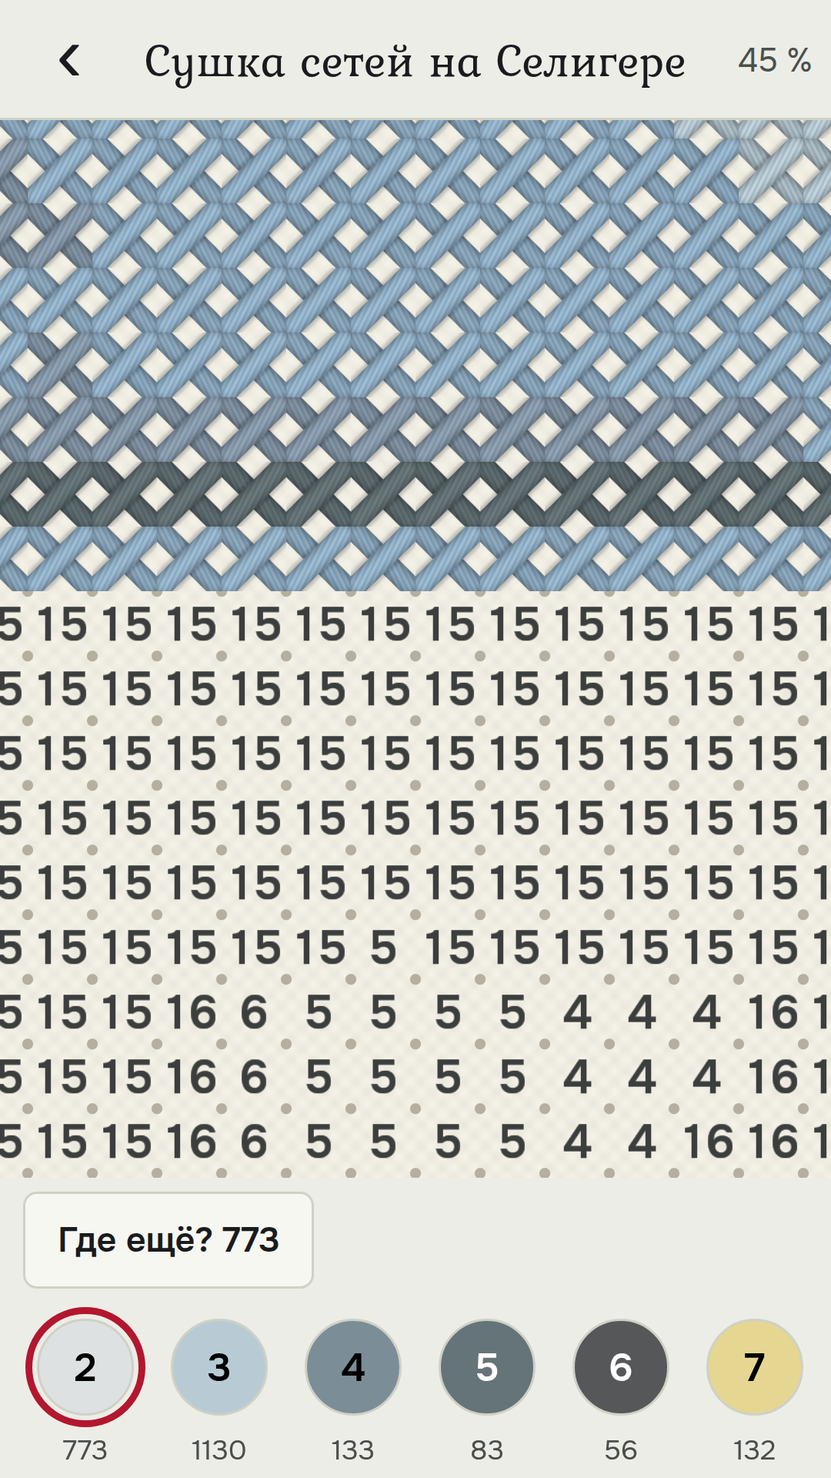
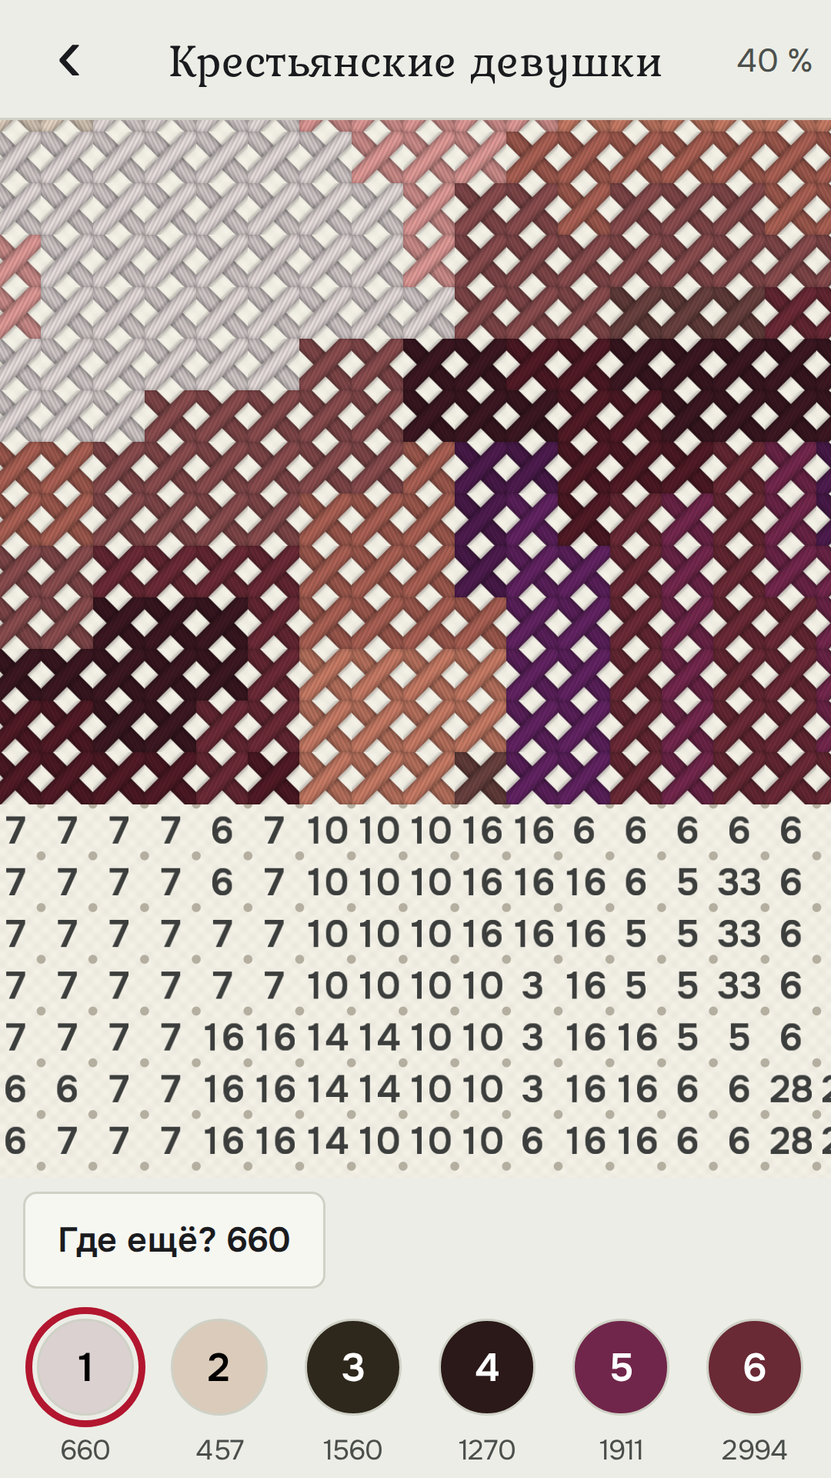
Снимки для сайта и RuStore — крупные узоры; описания
На старых снимках «Крестьянские девушки» были собраны мелко (около 100
клеток по стороне): так узоры собирались до 0.0.4. Теперь снимки
Прокудина-Горского — до 360 клеток по стороне, и кадры пересняты: вышивание
крупно («Крестьянские девушки», 40 %), большая работа издалека («Пинхус
Карлинский»), крупные номера (орнамент), «Мозаика» (дыни «Торговца
дынями»), «Готово» (116 640 стежков) и «Как вышивалось».

tools/store/shots.ts: работы веб-сборки давно лежат в IndexedDB, а сценарий
подкладывал их в localStorage — теперь кладёт в базу страницы и открывает её
заново; строка о мыши (её нет на телефоне) скрыта; PNG плотнее без потерь.

Описания: на странице сайта (store/site/page.ru.md, page.en.md) и в
карточке RuStore (listing.ru.md, listing.en.md) — размеры от узоров на пять
минут до картин на несколько вечеров и подробность больших узоров; шесть
кадров с подписями. Сайт заберёт store/ с main сам — workflow «Страницы
игр» ночью откроет PR «Сайт: обновления игр».

Claude-Session: https://claude.ai/code/session_011kYKK7oQZbu5ACgnuahr3Q

diff --git a/tools/store/shots.ts b/tools/store/shots.ts
@@ -72,22 +72,54 @@ async function open(page: Page, s: Seed, settings: Record<string, unknown>) {
   const started = Date.now() - 42 * 60_000;
   const bytes = encodeWork(s.key, started, s.strokes);
   const index = [{ id: s.id, pattern: s.key, started, done: s.done, total: s.total, opened: started + 40 * 60_000, at: s.at }];
-  await page.addInitScript(([id, work, idx, set]) => {
-    localStorage.clear();
-    localStorage.setItem(`uzory.files.${id}.log`, work);
-    localStorage.setItem('uzory.files.index.json', idx);
-    localStorage.setItem('uzory.settings.v1', set);
-  }, [s.id, base64Encode(bytes), base64Encode(utf8Encode(JSON.stringify(index))), JSON.stringify(settings)] as const);
+  // работы веб-сборки — в IndexedDB (src/state/files.web.ts), настройки — в localStorage:
+  // страница открывается, файлы кладутся в её базу, и она открывается заново уже с работой
   await page.goto(base);
+  await page.evaluate(async ([id, work, idx, set]) => {
+    localStorage.clear();
+    localStorage.setItem('uzory.settings.v1', set);
+    const bytesOf = (b64: string) => Uint8Array.from(atob(b64), (c) => c.charCodeAt(0));
+    await new Promise<void>((resolve, reject) => {
+      const r = indexedDB.open('uzory', 1);
+      r.onupgradeneeded = () => r.result.createObjectStore('files');
+      r.onerror = () => reject(r.error);
+      r.onsuccess = () => {
+        const db = r.result;
+        const t = db.transaction('files', 'readwrite');
+        const files = t.objectStore('files');
+        files.clear();
+        files.put(bytesOf(work), `${id}.log`);
+        files.put(bytesOf(idx), 'index.json');
+        t.oncomplete = () => {
+          db.close();
+          resolve();
+        };
+        t.onerror = () => reject(t.error);
+      };
+    });
+  }, [s.id, base64Encode(bytes), base64Encode(utf8Encode(JSON.stringify(index))), JSON.stringify(settings)] as const);
+  await page.reload();
+  // строка о мыши и колёсике — только в браузере: на телефоне, для которого эти снимки, её нет
+  await page.addStyleTag({ content: '[data-testid="hint"] { display: none !important; }' });
   await page.getByTestId('continue').waitFor({ timeout: 60_000 });
   await page.getByTestId('continue').click();
   await page.getByTestId('canvas').waitFor();
   await page.waitForTimeout(2500);
 }
 
+/** Клавиши канвы в браузере (docs/specs/2026-09-web.md): «−» — дальше, «0» — весь узор. */
+async function keys(page: Page, ...list: string[]) {
+  for (const k of list) {
+    await page.keyboard.press(k);
+    await page.waitForTimeout(400);
+  }
+  await page.waitForTimeout(800);
+}
+
 async function save(page: Page, name: string) {
   const png = await page.screenshot();
-  await sharp(png).toFile(join(SHOTS, `${name}.png`));
+  // без потерь, но плотнее: сайт делает из них WebP сам, а RuStore берёт как есть
+  await sharp(png).png({ compressionLevel: 9, adaptiveFiltering: true }).toFile(join(SHOTS, `${name}.png`));
   console.log(name);
 }
 
@@ -104,25 +136,35 @@ const shot = async (f: (page: Page) => Promise<void>) => {
 const base0 = { hints: false, haptics: false, sound: false, music: false };
 
 try {
-  // 1. Вышивание: снимок Прокудина-Горского, верх вышит, дальше — номера
+  // 1. Вышивание: «Крестьянские девушки» Прокудина-Горского — красная кофта и тарелка с ягодами
+  // вышиты, ниже номера; чуть дальше масштаба открытия, чтобы в кадр вошли и крестики, и картина
   await shot(async (page) => {
-    const p = get('pg-sushka-setey').pattern;
-    await open(page, seed('w-shot-1', p, progress(p, 0.46), { x: p.w * 0.42, y: p.h * 0.47 }), { ...base0, style: 'cross' });
+    const p = get('pg-krestyanskie-devushki').pattern;
+    await open(page, seed('w-shot-1', p, progress(p, 0.41), { x: p.w * 0.76, y: p.h * 0.4 }), { ...base0, style: 'cross' });
+    await keys(page, '-');
     await save(page, '01-stitch');
   });
-  // 2. Крупные номера: орнамент, выбранная нить подсвечена
+  // 2. Большая работа издалека: вышитое — цветом, остальное — бледной схемой
+  await shot(async (page) => {
+    const p = get('pg-pinkhus-karlinskiy').pattern;
+    await open(page, seed('w-shot-2', p, progress(p, 0.55), { x: p.w / 2, y: p.h / 2 }), { ...base0, style: 'cross' });
+    await keys(page, '0');
+    await save(page, '02-far');
+  });
+  // 3. Крупные номера: орнамент, выбранная нить подсвечена
   await shot(async (page) => {
     const p = get('zvezda-alatyr').pattern;
-    await open(page, seed('w-shot-2', p, progress(p, 0.5, [0]), { x: p.w / 2, y: p.h / 2 }), { ...base0, style: 'cross', bigNumbers: true });
-    await save(page, '02-close');
+    await open(page, seed('w-shot-3', p, progress(p, 0.5, [0]), { x: p.w / 2, y: p.h / 2 }), { ...base0, style: 'cross', bigNumbers: true });
+    await save(page, '03-close');
   });
-  // 3. «Мозаика»
+  // 4. «Мозаика»: дыни «Торговца дынями» ровными квадратами
   await shot(async (page) => {
     const p = get('pg-torgovets-dynyami').pattern;
-    await open(page, seed('w-shot-3', p, progress(p, 0.55), { x: p.w * 0.35, y: p.h * 0.56 }), { ...base0, style: 'mosaic' });
-    await save(page, '03-mosaic');
+    await open(page, seed('w-shot-4', p, progress(p, 0.5), { x: p.w * 0.62, y: p.h * 0.5 }), { ...base0, style: 'mosaic' });
+    await keys(page, '-');
+    await save(page, '04-mosaic');
   });
-  // 4–5. Готово и «Как вышивалось»: последняя клетка — в центре экрана
+  // 5–6. Готово и «Как вышивалось»: последняя клетка — в центре экрана
   await shot(async (page) => {
     const p = get('pg-krestyanskie-devushki').pattern;
     const all = progress(p, 1);
@@ -131,15 +173,15 @@ try {
     if (!last.cells.length) all.pop();
     const x = cell % p.w;
     const y = (cell - x) / p.w;
-    await open(page, seed('w-shot-4', p, all, { x: x + 0.5, y: y + 0.5 }), { ...base0, style: 'cross' });
+    await open(page, seed('w-shot-5', p, all, { x: x + 0.5, y: y + 0.5 }), { ...base0, style: 'cross' });
     const box = (await page.getByTestId('canvas').boundingBox())!;
     await page.mouse.click(box.x + box.width / 2, box.y + box.height / 2);
     await page.getByTestId('replay').waitFor({ timeout: 15_000 });
     await page.waitForTimeout(1500);
-    await save(page, '04-done');
+    await save(page, '05-done');
     await page.getByTestId('replay').click();
-    await page.waitForTimeout(4500);
-    await save(page, '05-replay');
+    await page.waitForTimeout(5500);
+    await save(page, '06-replay');
   });
 } finally {
   await browser.close();

diff --git a/store/site/page.ru.md b/store/site/page.ru.md
@@ -1,7 +1,7 @@
 ---
 name: Узоры
 title: Узоры — вышивка крестиком по номерам
-description: "Раскраска по номерам в виде вышивки крестиком: орнаменты, картины и Россия в цвете. Новая картинка каждый день, без интернета и без рекламы."
+description: "Раскраска по номерам в виде вышивки крестиком: орнаменты, картины и Россия в цвете — от узоров на пять минут до картин на несколько вечеров. Картинка дня, без интернета и без рекламы."
 kind: Раскраска по номерам
 status: dev
 lead: "Вышивка крестиком по номерам: выбираете нить и вышиваете — касанием или проводя пальцем."
@@ -10,19 +10,26 @@ feature: graphics/feature-ru.png
 shots:
   - file: screenshots/ru/01-stitch.png
     caption: Вышивание
-    alt: "Вышивание: льняная канва, крестики и номера нитей в клетках, полоса нитей внизу"
-  - file: screenshots/ru/02-close.png
+    alt: "Вышивание снимка Прокудина-Горского: крестики на льняной канве, номера нитей в клетках, полоса нитей внизу"
+  - file: screenshots/ru/02-far.png
+    caption: Большая работа издалека
+    alt: "Большая работа издалека: вышитое — цветом нитей, остальное — бледной схемой"
+  - file: screenshots/ru/03-close.png
     caption: Крупные номера
-    alt: "Крестики крупно: выбранная нить подсвечена, номера на невышитых клетках"
-  - file: screenshots/ru/03-mosaic.png
+    alt: "Орнамент крупно: выбранная нить подсвечена, номера на невышитых клетках"
+  - file: screenshots/ru/04-mosaic.png
     caption: Стиль «Мозаика»
-    alt: "Стиль «Мозаика»: ровные квадраты с тонким зазором"
-  - file: screenshots/ru/04-done.png
+    alt: "Стиль «Мозаика»: ровные квадраты с тонким зазором вместо крестиков"
+  - file: screenshots/ru/05-done.png
     caption: Готово
-    alt: Готовая работа в рамке и кнопка «Как вышивалось»
+    alt: "Готовая работа: «Крестьянские девушки» Прокудина-Горского, 116 640 стежков, и кнопка «Как вышивалось»"
+  - file: screenshots/ru/06-replay.png
+    caption: Как вышивалось
+    alt: "«Как вышивалось»: работа заполняется стежок за стежком в том порядке, как её вышивали"
 card:
   text: "Вышивка крестиком по номерам: выбираете нить и вышиваете касанием или проводя пальцем. Орнаменты, картины и Россия в цвете, новая картинка каждый день, спокойная музыка, никакой спешки."
   points:
+    - От узора на пять минут до большой картины на несколько вечеров
     - Картинка дня бесплатно — каждый день и навсегда
     - Без интернета, без регистрации и без рекламы
     - Подписка «Узоры+» — без пробной недели с автосписанием
@@ -40,6 +47,10 @@ card:
 - Сказки, цветы, природа, города и простые картинки для детей.
 - Новая картинка каждый день — бесплатно и навсегда.
 
+Размеры — от малых узоров на пять минут до больших картин и старых снимков на несколько вечеров.
+Чем крупнее узор, тем подробнее: у «Крестьянских девушек» Прокудина-Горского — больше ста тысяч
+стежков, видны лица и узоры тканей. Работа сохраняется сама — продолжайте, когда удобно.
+
 ## Спокойно и честно
 
 Ни таймеров, ни энергии, ни серий «не пропусти день». Ошибиться нельзя: стежок ложится только туда,
@@ -50,6 +61,6 @@ card:
 
 ## Когда
 
-Игра в разработке, снимки — с прототипа: канва и «Готово» уже выглядят как в 1.0. «Узоры» готовятся
+Игра в разработке, снимки — со сборки для проверки: канва и «Готово» уже выглядят как в 1.0. «Узоры» готовятся
 к выходу в RuStore для Android; когда откроется предзаказ, здесь появится кнопка. Почта для
 вопросов: hello@gornitsa.games.

diff --git a/store/site/page.en.md b/store/site/page.en.md
@@ -1,7 +1,7 @@
 ---
 name: Uzory
 title: Uzory — cross-stitch by numbers
-description: "Color by number as cross-stitch: folk ornaments, paintings and old Russia in colour. A new picture every day, offline and without ads."
+description: "Color by number as cross-stitch: folk ornaments, paintings and old Russia in colour — from five-minute patterns to paintings for several evenings. Offline, without ads."
 kind: Color by number
 status: dev
 lead: "Cross-stitch by numbers: pick a thread and stitch — tap a cell or brush your finger across the canvas."
@@ -10,19 +10,26 @@ feature: graphics/feature-en.png
 shots:
   - file: screenshots/ru/01-stitch.png
     caption: Stitching
-    alt: "Stitching: linen canvas, crosses and thread numbers in cells, thread bar at the bottom"
-  - file: screenshots/ru/02-close.png
+    alt: "Stitching a Prokudin-Gorsky photograph: crosses on linen canvas, thread numbers in cells, thread bar at the bottom"
+  - file: screenshots/ru/02-far.png
+    caption: A large work from afar
+    alt: "A large work from afar: stitched cells in thread colours, the rest as a pale chart"
+  - file: screenshots/ru/03-close.png
     caption: Large numbers
-    alt: "Crosses up close: the selected thread is highlighted"
-  - file: screenshots/ru/03-mosaic.png
+    alt: "An ornament up close: the selected thread is highlighted, numbers on unstitched cells"
+  - file: screenshots/ru/04-mosaic.png
     caption: Mosaic style
-    alt: "Mosaic style: even squares with a thin gap"
-  - file: screenshots/ru/04-done.png
+    alt: "Mosaic style: even squares with a thin gap instead of crosses"
+  - file: screenshots/ru/05-done.png
     caption: Finished
-    alt: A finished work in a frame with the replay button
+    alt: "A finished work: Prokudin-Gorsky's Peasant Girls, 116,640 stitches, with the replay button"
+  - file: screenshots/ru/06-replay.png
+    caption: Replay
+    alt: "Replay: the work fills in stitch by stitch in the order it was stitched"
 card:
   text: "Cross-stitch by numbers: pick a thread and stitch with a tap or a swipe. Folk ornaments, paintings and old Russia in colour, a new picture every day, calm music and no rush."
   points:
+    - From a five-minute pattern to a large painting for several evenings
     - A free picture of the day — every day, forever
     - Offline, no sign-up and no ads
     - Uzory+ subscription — no trial week that auto-renews
@@ -41,6 +48,11 @@ game replays how it was stitched.
 - Fairy tales, flowers, nature, cities and simple pictures for kids.
 - A new picture every day — free, forever.
 
+Sizes range from small five-minute patterns to large paintings and old photographs for several
+evenings. The larger the pattern, the finer the detail: Prokudin-Gorsky's Peasant Girls has more
+than a hundred thousand stitches, and you can see faces and fabric patterns. Your work saves
+itself — carry on whenever you like.
+
 ## Calm and honest
 
 No timers, no energy, no streaks. No wrong stitches, and "Where else?" finds the cells you have
@@ -50,7 +62,7 @@ started can be finished after it ends.
 
 ## When
 
-The game is in development; the screenshots are from the prototype, which is in Russian, though the
+The game is in development; the screenshots are from a test build, which is in Russian, though the
 canvas and the finished screen already look as they will in 1.0. Uzory is being prepared for
 release in RuStore for Android; when pre-orders open, a button will appear here. Questions:
 hello@gornitsa.games.

diff --git a/store/listing.ru.md b/store/listing.ru.md
@@ -25,6 +25,7 @@
 • «Россия в цвете» — снимки Сергея Прокудина-Горского, сделанные больше ста лет назад: монастыри, озёра, базары, люди.
 • Сказки, цветы, природа, города и простые картинки для детей.
 • Новая картинка каждый день — бесплатно и навсегда. Пропустили неделю — прошлые картинки дня ждут в календаре.
+• От малых узоров на пять минут до больших картин и старых снимков на несколько вечеров. Чем крупнее узор, тем подробнее: в больших — больше ста тысяч стежков, видны лица и узоры тканей.
 
 СПОКОЙНО
 • Ни таймеров, ни энергии, ни серий «не пропусти день».

diff --git a/store/README.md b/store/README.md
@@ -18,4 +18,6 @@
 **На снимках и баннере — только то, что можно выпускать**: свои орнаменты и снимки
 Прокудина-Горского. Картины из российских музеев — нет, пока не решён В12
 (`docs/09-content.md`, §2). Снимки — предварительные: экраны игры ещё прототипные, поэтому
-в кадре — канва и «Готово», которые уже выглядят как в 1.0.
+в кадре — канва и «Готово», которые уже выглядят как в 1.0. С 29.09.2026 на них снимки
+Прокудина-Горского в нынешнем размере (до 360 клеток по стороне, больше ста тысяч стежков):
+вышивание крупно, большая работа издалека, «Мозаика», «Готово» и «Как вышивалось».

diff --git a/store/listing.en.md b/store/listing.en.md
@@ -21,6 +21,7 @@ WHAT TO STITCH
 • Russia in Colour — photographs by Sergei Prokudin-Gorsky taken more than a hundred years ago.
 • Fairy tales, flowers, nature, cities and simple pictures for kids.
 • A new picture every day — free, forever. Missed a week? Past daily pictures wait in the calendar.
+• From small five-minute patterns to large paintings and old photographs for several evenings. The larger the pattern, the finer the detail: the largest have more than a hundred thousand stitches, with faces and fabric patterns you can make out.
 
 CALM
 • No timers, no energy, no streaks.
